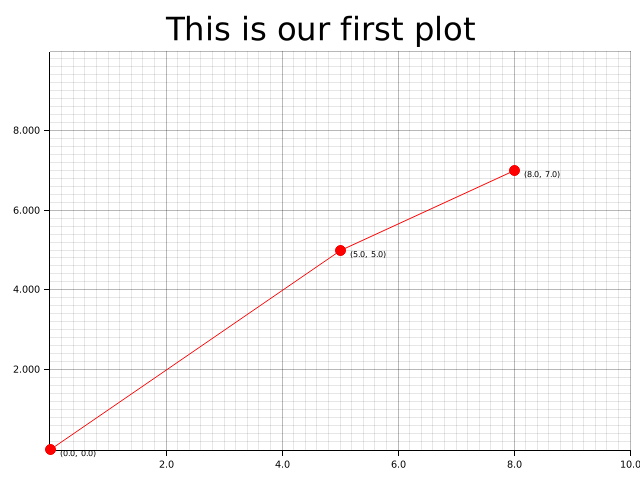
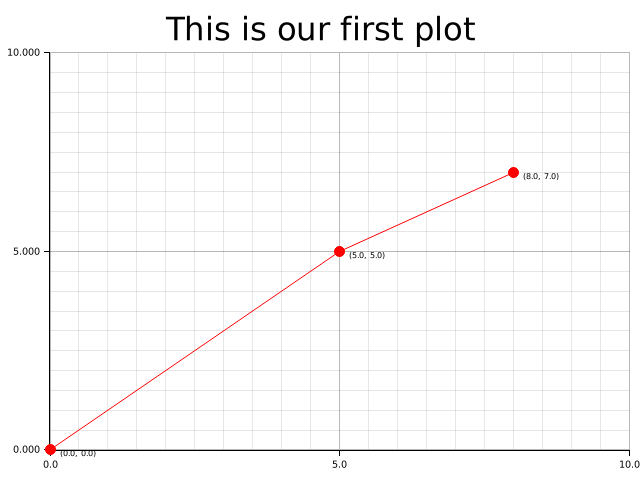
feat(plotting/plotters-x-squared): Add a plotter example using the SVG backend.

Changed region(s): [[0.0, 0.0938, 1.0, 1.0], [0.0312, 0.9062, 0.0938, 0.9688]]

diff --git a/projects/plotting/plotters-x-squared/src/bin/plot_backend_svg.rs b/projects/plotting/plotters-x-squared/src/bin/plot_backend_svg.rs
@@ -1,27 +1,7 @@
-=== create a new binary project
-
-. Let's create a new binary project called `plotters-x-squared`
-+
-[source,console]
-----
-$ cargo new plotters-x-squared --bin
-     Created binary (application) `plotters-x-squared` package
-----
-+
-[source,console]
-----
-$ cd plotters-x-squared/
-----
-
-=== Code
-
-[source,rust]
-./src/bin/plot_backend_png.rs
-----
 use plotters::prelude::*;
 
 fn main() -> Result<(), Box<dyn std::error::Error>> {
-    let root = BitMapBackend::new("../images/plotters-x-squared.png", (640, 480)).into_drawing_area();
+    let root = SVGBackend::new("../images/plotters-x-squared.svg", (640, 480)).into_drawing_area();
     root.fill(&WHITE)?;
     let mut chart = ChartBuilder::on(&root)
         .caption("y=x^2", ("sans-serif", 50).into_font())
@@ -48,26 +28,3 @@ fn main() -> Result<(), Box<dyn std::error::Error>> {
 
     Ok(())
 }
-----
-
-=== Run the examples
-
-* Backend PNG
-+
-[source,shell]
-----
-cargo run --bin plot_backend_png --release
-----
-+
-.Results
-image::../images/plotters-x-squared.png[]
-
-* Backend SVG
-+
-[source,shell]
-----
-cargo run --bin plot_backend_svg --release
-----
-+
-.Results
-image::../images/plotters-x-squared.svg[]
